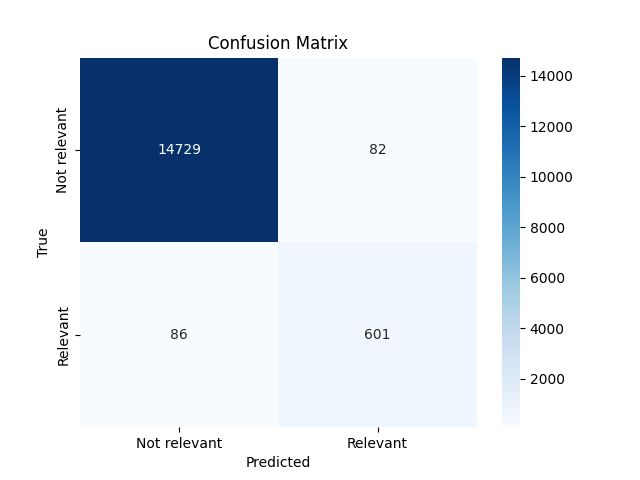
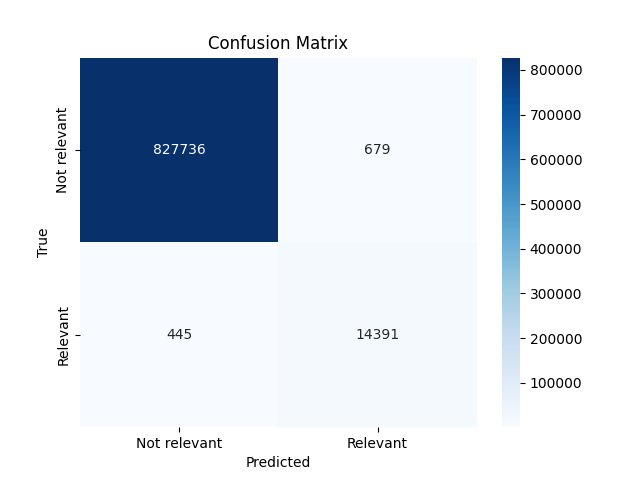
Update retrieval

diff --git a/code/2.1b_test_embed.py b/code/2.1b_test_embed.py
@@ -1,7 +1,7 @@
 import pandas as pd
 import re
 import numpy as np
-from datasets import load_dataset, concatenate_datasets
+from datasets import load_dataset
 from sklearn.model_selection import train_test_split
 import xgboost as xgb
 from sklearn.metrics import accuracy_score, f1_score, recall_score, precision_score, confusion_matrix
@@ -11,9 +11,6 @@ import seaborn as sns
 
 # Load the data
 dataset = load_dataset("alex-miller/crs-2014-2023-housing-similarity", split="train")
-pos = dataset.filter(lambda e: e['sector_code'] in [16030, 16040], num_proc=8)
-neg = dataset.filter(lambda e: e['sector_code'] not in [16030, 16040], num_proc=8).shuffle(seed=42).select(range(50000))
-dataset = concatenate_datasets([pos, neg])
 dat = dataset.to_pandas()
 
 # Load keywords
@@ -23,11 +20,11 @@ keywords = pd.read_csv("input/keywords.csv")
 keyword_regex = "|".join([fr"\b{re.escape(word)}\b" for word in keywords["word"]])
 
 # Apply keyword matching
+print("Finding keywords...")
 dat["keyword"] = dat["text"].str.lower().str.contains(keyword_regex, regex=True, na=False)
 
 # Define target condition
 dat["target"] = ((dat["sector_code"].isin([16030, 16040])) | dat["keyword"]).astype(int)
-# dat["target"] = (dat["sector_code"].isin([16030, 16040])).astype(int)
 
 # Variables
 y = dat.pop('target').values.astype(int)
@@ -37,7 +34,9 @@ dat.pop('sector_code')
 X = dat.values.astype(float)
 
 # Split
-X_train, X_test, y_train, y_test = train_test_split(X, y, test_size=0.3, shuffle=True)
+# X_train, X_test, y_train, y_test = train_test_split(X, y, test_size=0.3, shuffle=True)
+X_train = X_test = X
+y_train = y_test = y
 
 # Remove split keyword search
 X_train_keyword = X_train[:,X_train.shape[1] - 1]
@@ -46,25 +45,26 @@ X_train = X_train[:,range(X_train.shape[1] -1)]
 X_test = X_test[:,range(X_test.shape[1] -1)]
 
 # Fit
-rf_class = xgb.XGBClassifier(n_estimators=100)
-rf_class.fit(X_train, y_train)
+print("Fitting model...")
+xgb_class = xgb.XGBClassifier(n_estimators=100)
+xgb_class.fit(X_train, y_train)
 
 # Predict
-y_pred_rf = rf_class.predict(X_test)
-rf_or_kw = np.any(np.array([y_pred_rf, X_test_keyword]), axis=0).astype(int)
+y_pred_xgb = xgb_class.predict(X_test)
+xgb_or_kw = np.any(np.array([y_pred_xgb, X_test_keyword]), axis=0).astype(int)
 
 # Calculate metrics
-acc = accuracy_score(y_test, y_pred_rf)
-f1 = f1_score(y_test, y_pred_rf)
-rec = recall_score(y_test, y_pred_rf)
-pre = precision_score(y_test, y_pred_rf)
+acc = accuracy_score(y_test, y_pred_xgb)
+f1 = f1_score(y_test, y_pred_xgb)
+rec = recall_score(y_test, y_pred_xgb)
+pre = precision_score(y_test, y_pred_xgb)
 
 print("\nXGBoost Classifier:")
 print("Accuracy: ", acc)
 print("F1: ", f1)
 print("Recall: ", rec)
 print("Precision: ", pre)
-print(confusion_matrix(y_test, y_pred_rf))
+print(confusion_matrix(y_test, y_pred_xgb))
 
 k_acc = accuracy_score(y_test, X_test_keyword)
 k_f1 = f1_score(y_test, X_test_keyword)
@@ -79,21 +79,21 @@ print("Precision: ", k_pre)
 print(confusion_matrix(y_test, X_test_keyword))
 
 
-both_acc = accuracy_score(y_test, rf_or_kw)
-both_f1 = f1_score(y_test, rf_or_kw)
-both_rec = recall_score(y_test, rf_or_kw)
-both_pre = precision_score(y_test, rf_or_kw)
+both_acc = accuracy_score(y_test, xgb_or_kw)
+both_f1 = f1_score(y_test, xgb_or_kw)
+both_rec = recall_score(y_test, xgb_or_kw)
+both_pre = precision_score(y_test, xgb_or_kw)
 
 print("\nBoth together:")
 print("Accuracy: ", both_acc)
 print("F1: ", both_f1)
 print("Recall: ", both_rec)
 print("Precision: ", both_pre)
-print(confusion_matrix(y_test, rf_or_kw))
+print(confusion_matrix(y_test, xgb_or_kw))
 
 
 # Print the results
-cm = confusion_matrix(y_test, rf_or_kw)
+cm = confusion_matrix(y_test, xgb_or_kw)
 labels = ['Not relevant', 'Relevant']
 sns.heatmap(cm, annot=True, fmt='g', cmap='Blues', xticklabels=labels, yticklabels=labels)
 plt.xlabel('Predicted')
